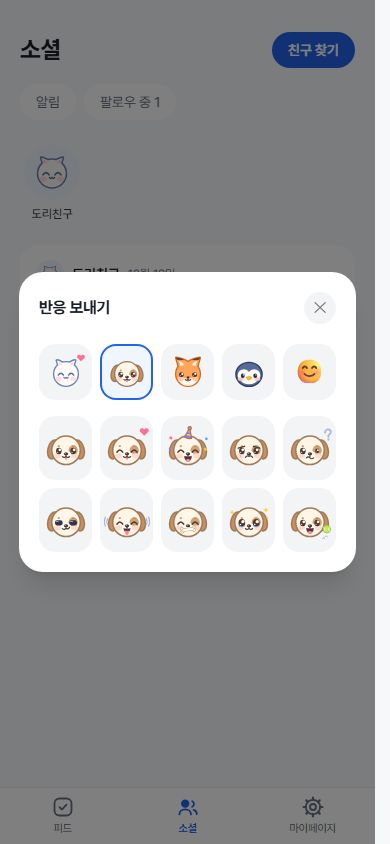
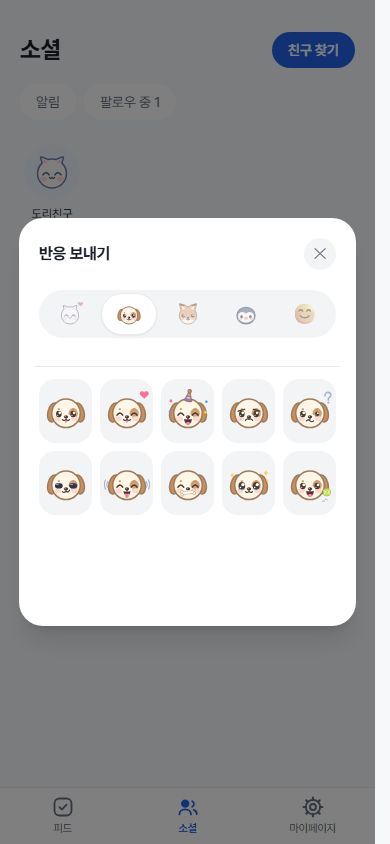
docs: 10월 12일 두 번째 배포 화면으로 스크린샷을 다시 찍는다

Changed region(s): [[0.0308, 0.2464, 0.9231, 0.6469], [0.0308, 0.6469, 0.9231, 0.7393], [0.5846, 0.4313, 0.7077, 0.6469]]

diff --git a/docs/screenshots/README.md b/docs/screenshots/README.md
@@ -48,4 +48,4 @@ SCREENSHOT_DIR=2026-10-01 npm run screenshots  # 폴더 이름을 정할 때
 | 2026-09-28 | 41257a3(이 코드로 찍음, 같은 날 첫 기준 8bee4da를 덮어씀) | 첫 기준 — 모든 화면. 할 일·일정 메모, 할 일 창(다른 날에 하기) |
 | 2026-10-01 | a5ea947 | 친구 팔로우·팔로워 목록(11), 반응 칩을 누르면 "누가 눌렀어요" 창(12), 일정 만들기 창·시간 선택(13), 가입 때 프로필 선택, 팔로우 안내 화면, 지난 날 "오늘 하기", 할 일을 카테고리 사이로 끌어 옮기기(촬영은 정지 화면이라 보이지 않음) |
 | 2026-10-03 | 9fb5f50 이후 | 반응 보내기 창의 캐릭터 탭·이모지 탭(15·16), 하루 귀, 기본 카테고리 이름 "오늘", 앱 로그인 계정 묻기(촬영 안 함) |
-| 2026-10-12 | 94dff2a | 폰에서도 한 달 달력(주간 줄 없앰), 첫 할 일 큰 버튼·소셜 추천 친구(10/7), 친구 프로필 상단, 반응 이름 글자 제거, 순서 손잡이 늘 보임, 루틴 고치기(촬영 목록 밖) |
+| 2026-10-12 | fd33cd5 | 폰에서도 한 달 달력(주간 줄 없앰), 첫 할 일 큰 버튼·소셜 추천 친구(10/7), 친구 프로필 상단, 반응 이름 글자 제거, 순서 손잡이 늘 보임, 루틴 고치기(촬영 목록 밖). 같은 날 다시 찍음: 반응 창 종류 막대·이모지 스크롤, 할 일 창 카테고리 고르기, 넓어진 손잡이(폰) |
